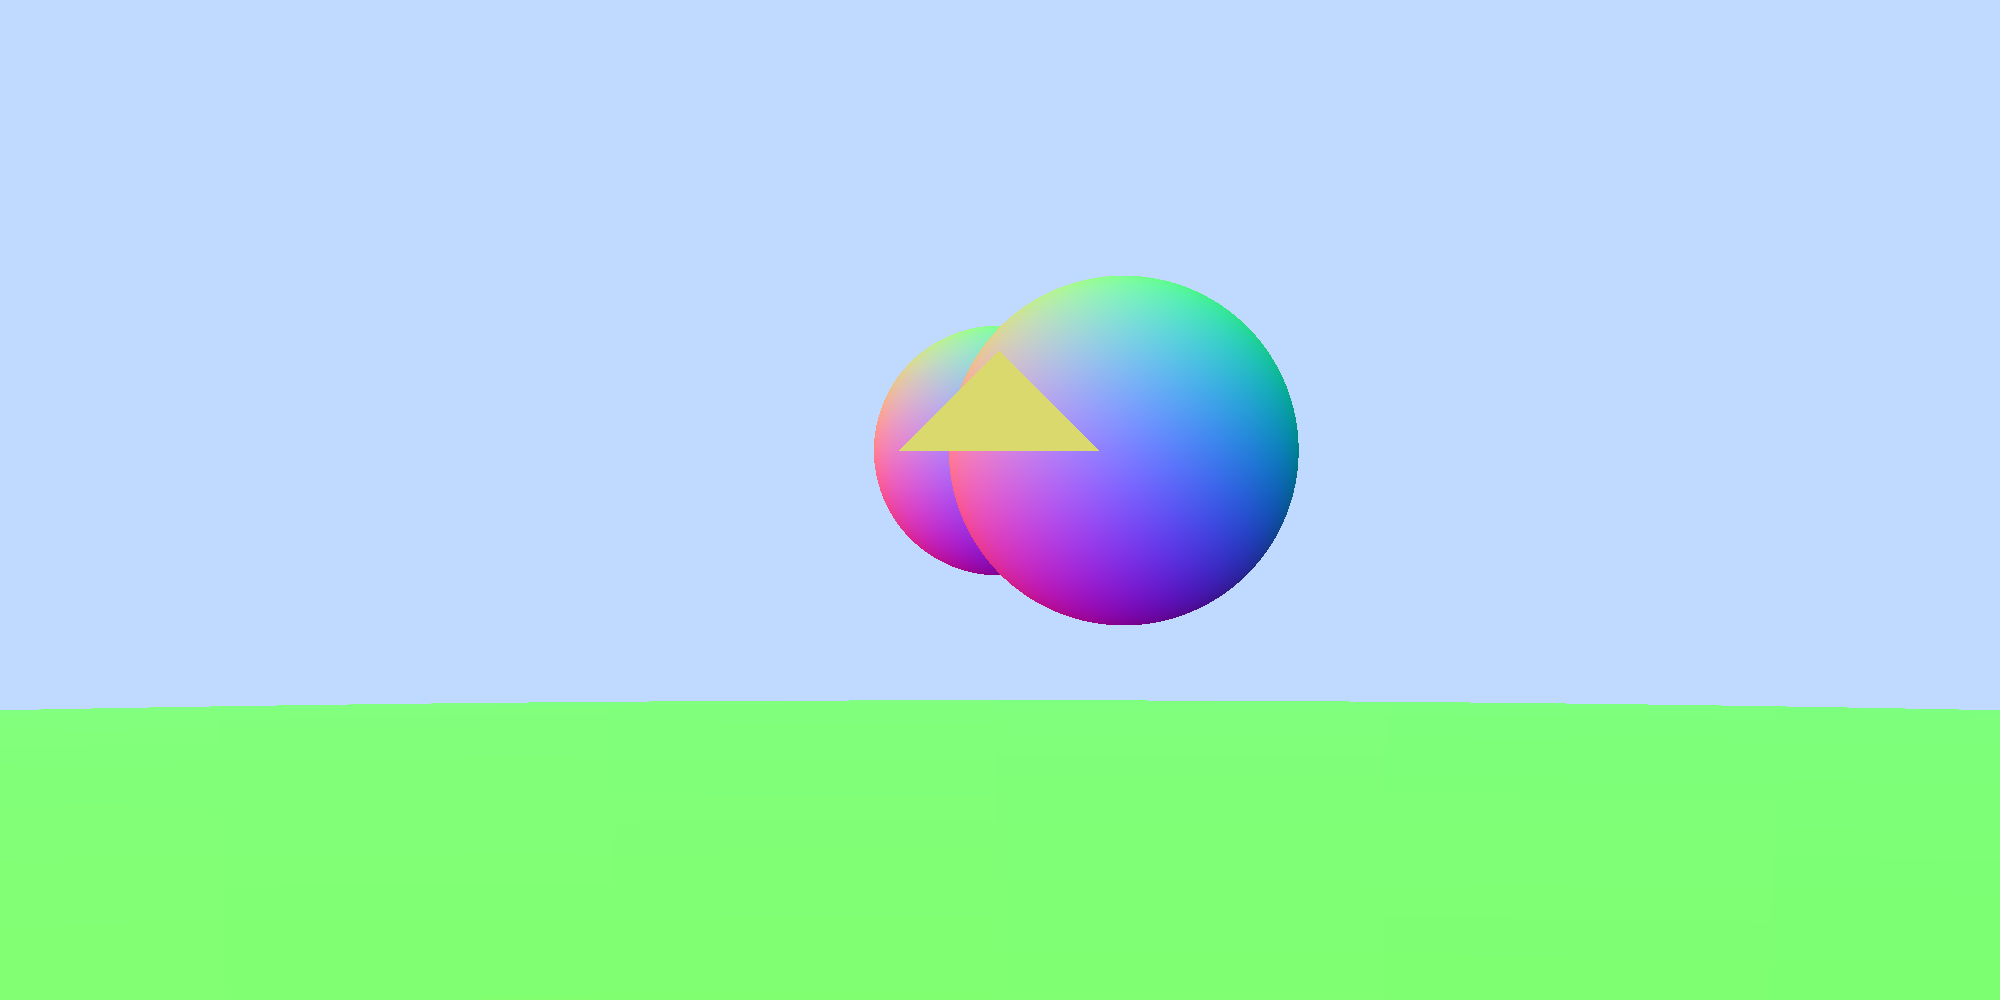
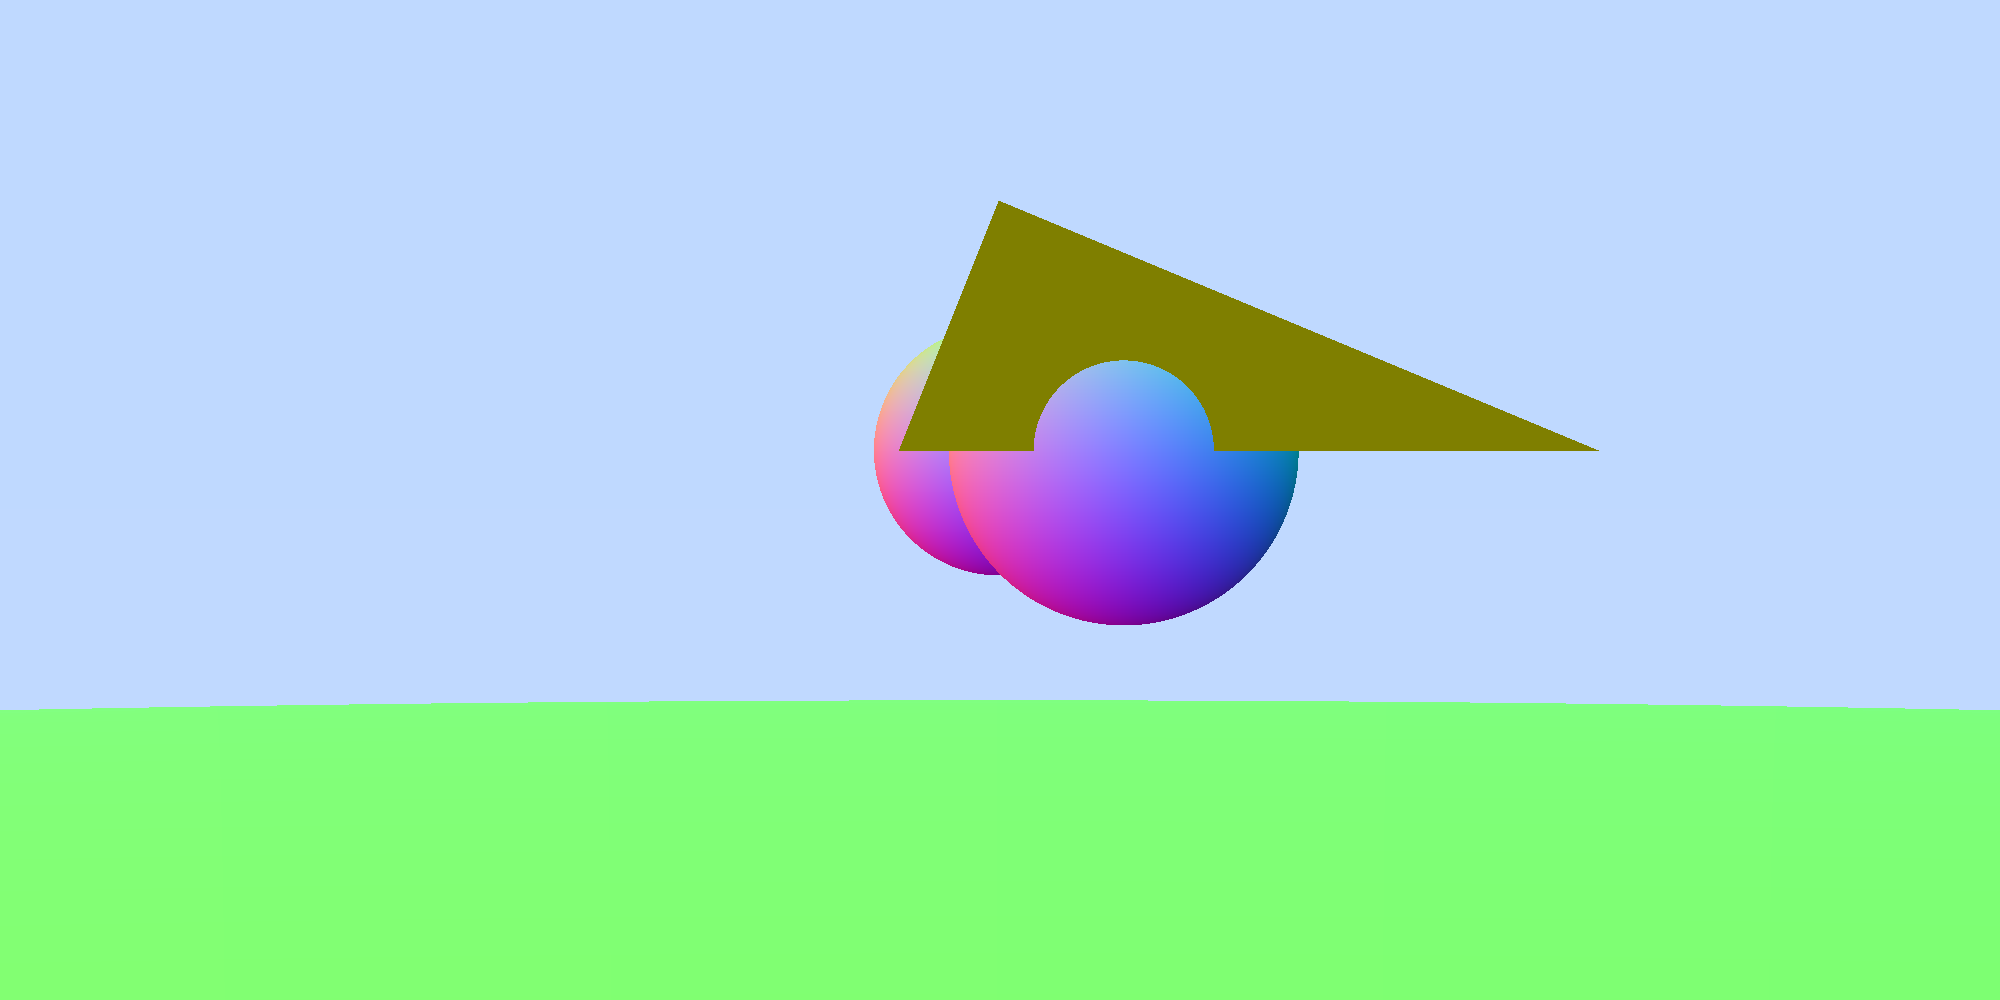
Triangle cuts through sphere

Changed region(s): [[0.434, 0.186, 0.806, 0.465]]

diff --git a/IK_Raytracer/IK_Raytracer/IK_Raytracer.cpp b/IK_Raytracer/IK_Raytracer/IK_Raytracer.cpp
@@ -37,11 +37,12 @@ int main()
     LightIntensity lColor(220, 0, 0);
   
     Hitable* list[4];
-    list[0] = new Sphere(vec3(0.0, 0.0, -1), 0.25);
-    list[1] = new Sphere(vec3(0, -100.5, -1), 100);
-    list[2] = new Sphere(vec3(-0.25, 0, -0.5), 0.35);
+    list[0] = new Triangle(vec3(-1.2, 0.0, -0.2), vec3(0.2, 0.0, -0.2), vec3(0.0, 0.5, -0.2));
+    list[1] = new Sphere(vec3(0.0, 0.0, -1), 0.25);
+    list[2] = new Sphere(vec3(0, -100.5, -1), 100);
+    list[3] = new Sphere(vec3(-0.25, 0, -0.5), 0.35);
     
-    list[3] = new Triangle(vec3(-.2, 0.0, -2), vec3(.2, 0.0, 0.0), vec3(0, 0.2, 0));
+    
     Hitable* world = new HitableList(list, 4);
     float fov = 90;
     Camera cam(vec3(0, 0, 0), vec3(0, 0, -1), vec3(0, -1, 0), fov, float(scrWidth)/float(scrHeight));

diff --git a/IK_Raytracer/IK_Raytracer/Image.h b/IK_Raytracer/IK_Raytracer/Image.h
@@ -4,6 +4,7 @@
 #include <iostream>
 #include "Vector.h"
 #include "LightIntensity.h"
+#include "vec3.h"
 
 enum ImageType {
 	PNG, JPG, BMP, TGA
@@ -36,5 +37,4 @@ public:
 
 	void SetPixel(int x, int y, LightIntensity color);
 	//void DrawTriangle(Vector p1, Vector p2, Vector p3, LightIntensity color);
-
 };

diff --git a/IK_Raytracer/IK_Raytracer/Image.cpp b/IK_Raytracer/IK_Raytracer/Image.cpp
@@ -19,6 +19,7 @@ Image::Image(const char* filename) {
 Image::Image(int w, int h, int channels) : w(w), h(h), channels(channels) {
 	size = w * h * channels;
 	data = new uint8_t[size];
+
 }
 Image::Image(const Image& img) : Image(img.w, img.h, img.channels) {
 	memcpy(data, img.data, size);
